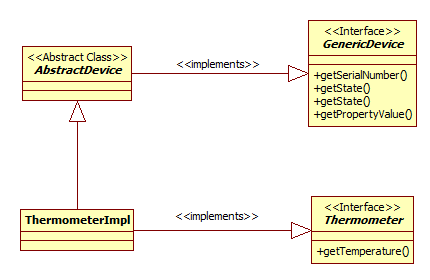
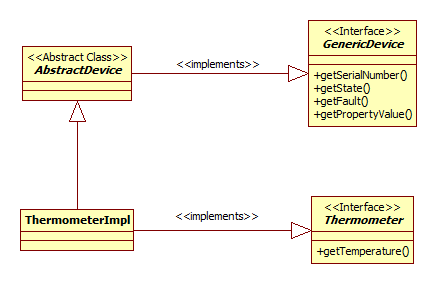
UML diagrams fixed.

Changed region(s): [[0.0302, 0.0571, 0.9674, 0.9429]]

diff --git a/src/site/markdown/guide.md b/src/site/markdown/guide.md
@@ -1,6 +1,6 @@
 # Simulator Web Guide
 
-The simulator module of iCasa platform provides a web interface for interaction with the server side (gateway). In the home page the user can select a simulation platform of the list. To access (locally) the home page in your browser go to this url : [http://localhost:9000](http://localhost:9000). If you prefer the cloud version go to [http://simulator-icasa.rhcloud.com/](http://simulator-icasa.rhcloud.com/).
+The simulator module of iCasa platform provides a web interface for interaction with the server side (gateway). In the home page the user can select a simulation platform of the list. To access (locally) the home page in your browser go to this url : [http://localhost:9000](http://localhost:9000).
     
 Once one platform selected, the simulator main interface is displayed. The main interface is divided in two sections: the map section presents the house plan, and the actions section shows information about the execution state of the iCasa platform and allows user to modify it.
     

diff --git a/src/site/markdown/overview.md b/src/site/markdown/overview.md
@@ -46,6 +46,6 @@ In addition, an iCasa application must be packaged as an OSGi bundle to be deplo
 
 The simulator module allows developers to test their digital home applications. In its GUI there are two sections; the map section presents the home plan and the context tabs section shows information about the execution state of the iCasa platform. 
 
-![iCasa Simulator GUI](overview/simulator.png "iCasa Simulator GUI")
+![iCasa Simulator GUI](guide/main-interface.png "iCasa Simulator GUI")
 
-
+A utilization guide of the Simulator iCasa GUI of is avalaible [here](guide.html)
